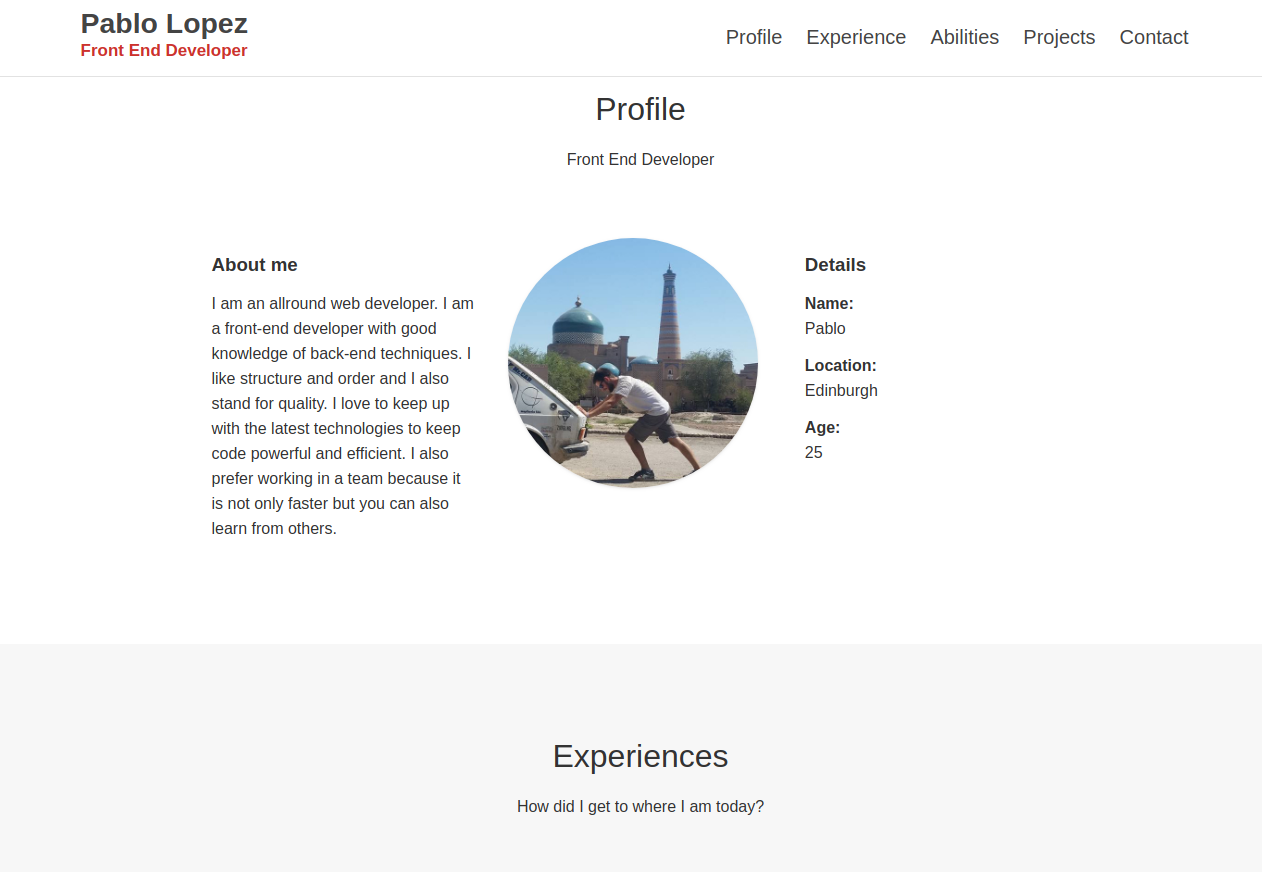
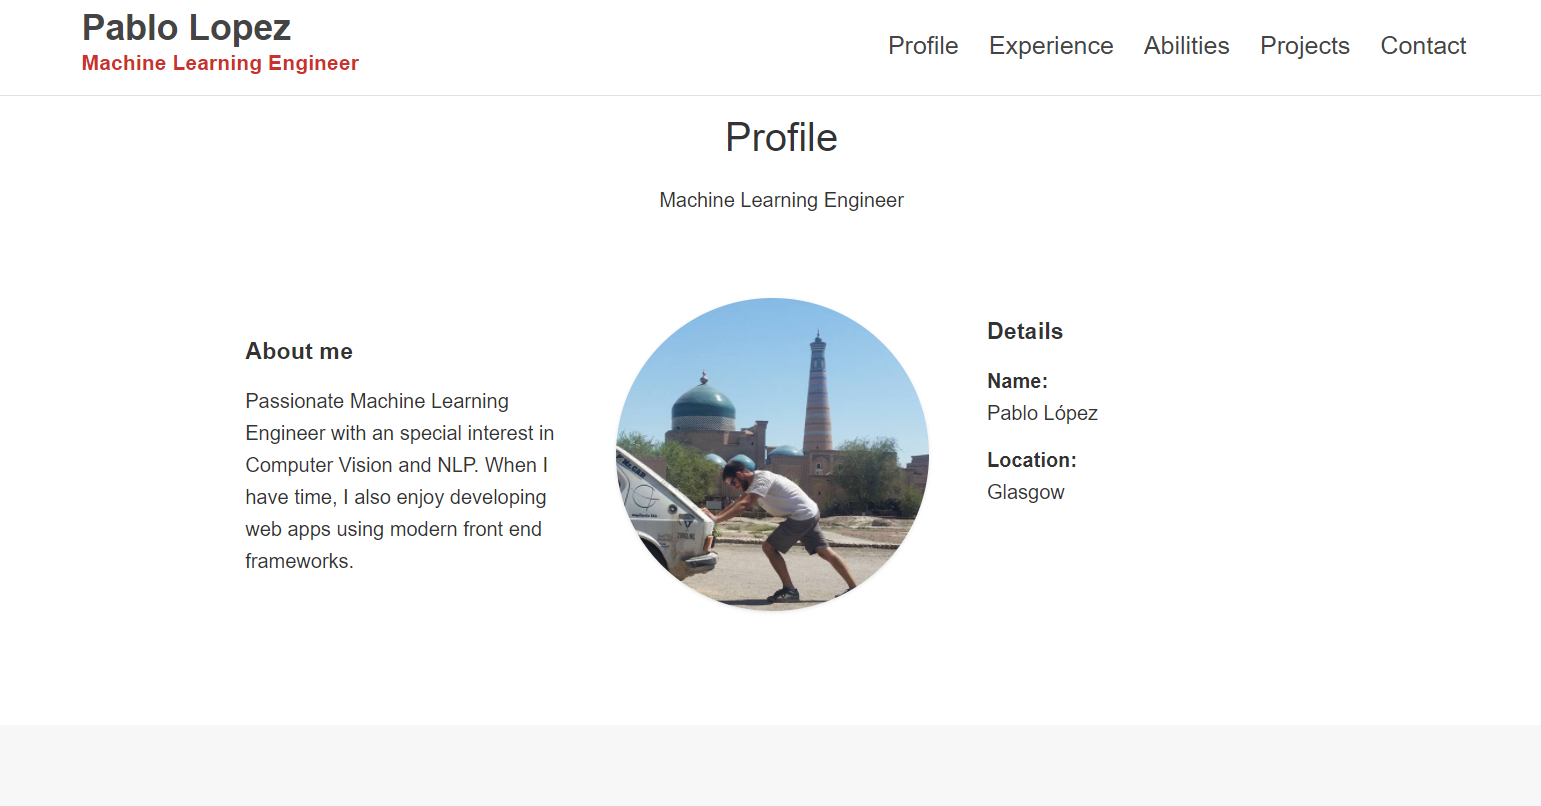
Changed image ratio and updated description in html

diff --git a/public/index.html b/public/index.html
@@ -4,13 +4,13 @@
         <meta charset="UTF-8">
         <meta name="viewport" content="width=device-width, initial-scale=1">
         <title>Pablo Lopez | Interactive CV</title>
-        <meta name="description" content="Pablo Lopez Santori is software developer and ML student located in Edinburgh">
+        <meta name="description" content="Pablo Lopez Santori is a Machine Learning Engineer located in Glasgow">
         <link rel="icon" type="image/png" href="/images/favicon.png">
         <link rel="stylesheet" type="text/css" href="/dist/styles.css">
 
         <meta property='og:title' content="Pablo's Interactive CV"/>
         <meta name="image" property="og:image" content="www.lopezsantori.com/images/website_preview.png">
-        <meta property='og:description' content="I am a Software developer and a student of Machine Learning."/>
+        <meta property='og:description' content="I am a Machine Learning Engineer located in Glasgow."/>
         <meta property='og:url' content="http://www.lopezsantori.com/" />
         <meta name="author" content="Pablo Lopez Santori">
     </head>
